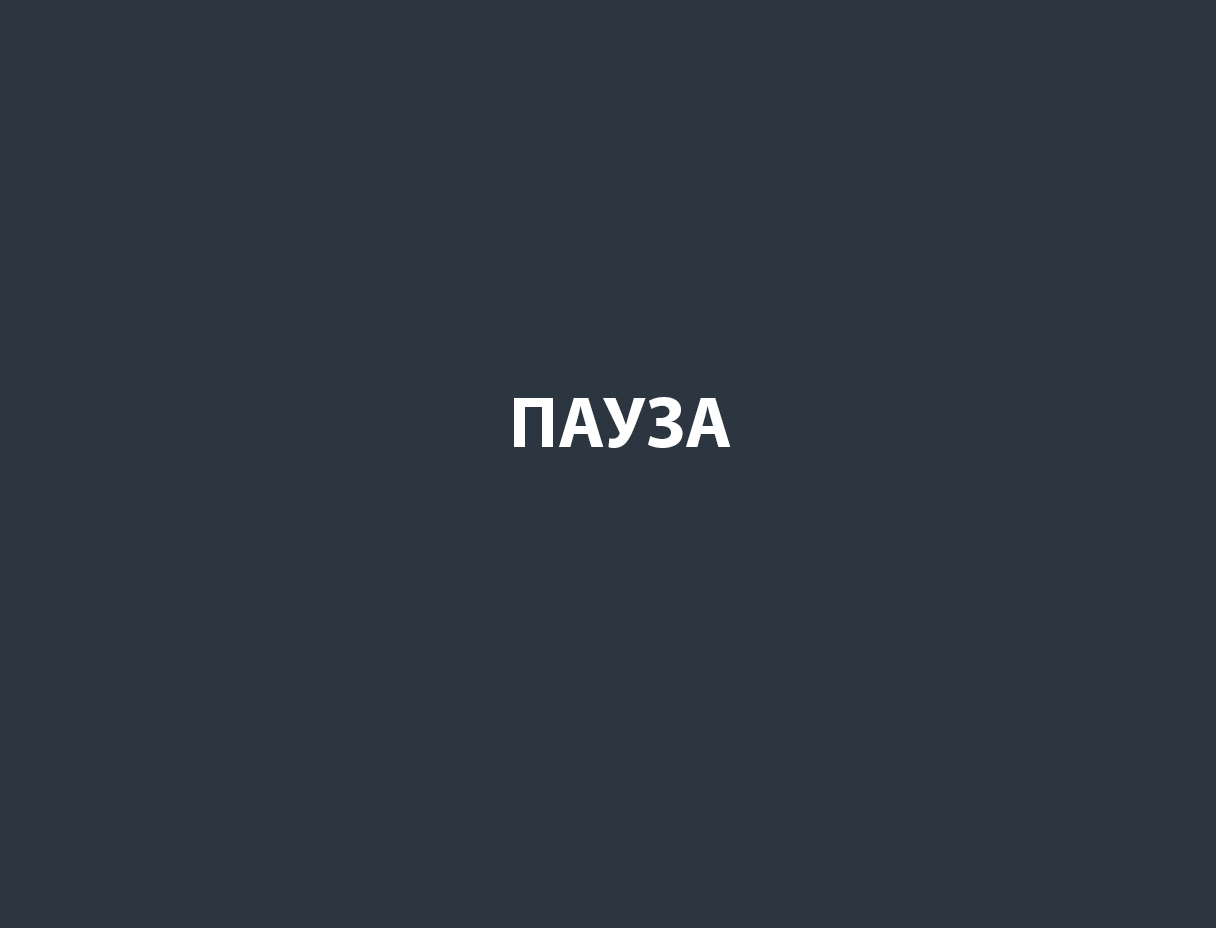
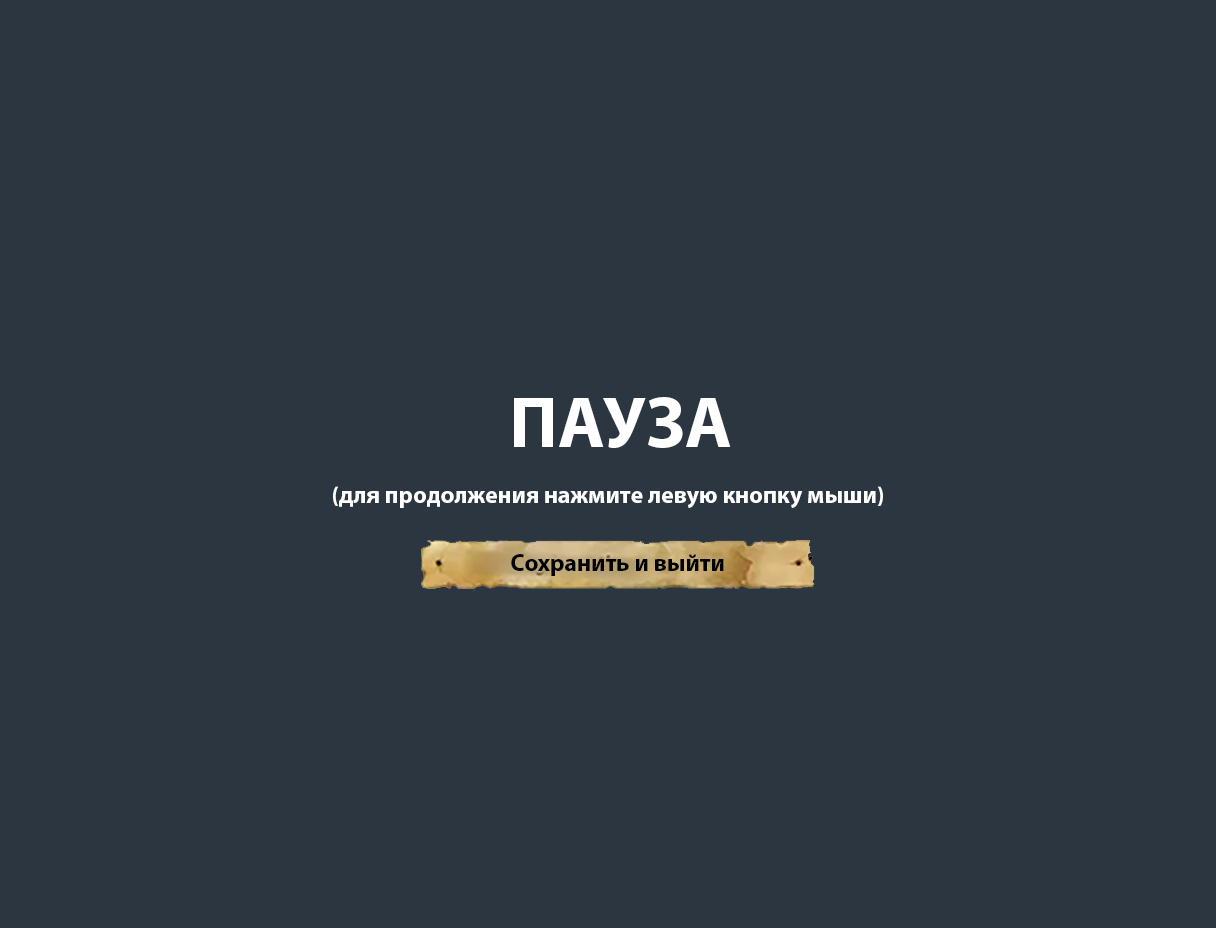
add save

Changed region(s): [[0.2812, 0.5312, 0.7188, 0.6562]]

diff --git a/BassicClasses/Map.cpp b/BassicClasses/Map.cpp
@@ -4,71 +4,79 @@ Map* Map::instance = nullptr;
 
 Map* Map::GetInstance()
 {
-	if (!instance) 
+	if (!instance)
 	{
 		instance = new Map();
 		instance->MGR = Manager::GetInstance();
 		instance->RES_MGR = Resource_manager::GetInstance();
-		string line;
-		vector <string> _map_vector;
-		ifstream file("./MapAndSave/map.txt");
+	}
+	return instance;
+}
 
-		while (getline(file, line)) {
-			_map_vector.push_back(line);
-		}
+void Map::SetMap(const char* filename)
+{
+	string line;
+	vector <string> _map_vector;
+	ifstream file(filename);
 
-		instance->map_vector = _map_vector;
-		
-		MSG* msg = new MSG;
+	while (getline(file, line)) {
+		_map_vector.push_back(line);
+	}
+	instance->map_vector = _map_vector;
 
-		for (int i = 0; i < _map_vector.size(); i++)
+	MSG* msg = new MSG;
+
+	for (int i = 0; i < map_vector.size() - 4; i++)
+	{
+		for (int j = 0; j < map_vector[0].length(); j++)
 		{
-			for (int j = 0; j < _map_vector[0].length(); j++)
+			if (map_vector[i][j] == '1')
 			{
-				if (_map_vector[i][j] == '1')
-				{
-					msg = new MSG;
-					msg->type = MsgType::Create;
-					House* a = new House({ j * 32, i * 32 }, 1, 5);
-					msg->create.new_object = a;
-					instance->MGR->SendMsg(msg);
-				}
-				if (_map_vector[i][j] == '2')
-				{
-					msg = new MSG;
-					msg->type = MsgType::Create;
-					Sawmill* a = new Sawmill({ j * 32, i * 32 }, 1);
-					msg->create.new_object = a;
-					instance->MGR->SendMsg(msg);
-				}
-				if (_map_vector[i][j] == '3')
-				{
-					MSG* msg = new MSG;
-					msg->type = MsgType::Create;
-					HuntersHouse* a = new HuntersHouse({ j * 32, i * 32 }, 1);
-					msg->create.new_object = a;
-					instance->MGR->SendMsg(msg);
-				}
-				if (_map_vector[i][j] == '4')
-				{
-					MSG* msg = new MSG;
-					msg->type = MsgType::Create;
-					Kitchen* a = new Kitchen({ j * 32, i * 32 }, 1);
-					msg->create.new_object = a;
-					instance->MGR->SendMsg(msg);
-				}
-				if (_map_vector[i][j] == '5')
-				{
-					MSG* msg = new MSG;
-					msg->type = MsgType::Create;
-					Hospital* a = new Hospital({ j * 32, i * 32 }, 1);
-					msg->create.new_object = a;
-					instance->MGR->SendMsg(msg);
-				}
+				RES_MGR->SetHomeless_people(RES_MGR->GetHomeless_people() - 5);
+				msg = new MSG;
+				msg->type = MsgType::Create;
+				House* a = new House({ j * 32, i * 32 }, 1, 5);
+				msg->create.new_object = a;
+				instance->MGR->SendMsg(msg);
+			}
+			if (map_vector[i][j] == '2')
+			{
+				RES_MGR->SetCountSawmill(1);
+				msg = new MSG;
+				msg->type = MsgType::Create;
+				Sawmill* a = new Sawmill({ j * 32, i * 32 }, 1);
+				msg->create.new_object = a;
+				instance->MGR->SendMsg(msg);
+			}
+			if (map_vector[i][j] == '3')
+			{
+				RES_MGR->SetCount_HunterHouse(1);
+				MSG* msg = new MSG;
+				msg->type = MsgType::Create;
+				HuntersHouse* a = new HuntersHouse({ j * 32, i * 32 }, 1);
+				msg->create.new_object = a;
+				instance->MGR->SendMsg(msg);
+			}
+			if (map_vector[i][j] == '4')
+			{
+				RES_MGR->SetCount_Kitchen(1);
+				MSG* msg = new MSG;
+				msg->type = MsgType::Create;
+				Kitchen* a = new Kitchen({ j * 32, i * 32 }, 1);
+				msg->create.new_object = a;
+				instance->MGR->SendMsg(msg);
+			}
+			if (map_vector[i][j] == '5')
+			{
+				RES_MGR->SetCount_Hospital(1);
+				MSG* msg = new MSG;
+				msg->type = MsgType::Create;
+				Hospital* a = new Hospital({ j * 32, i * 32 }, 1);
+				msg->create.new_object = a;
+				instance->MGR->SendMsg(msg);
 			}
 		}
 	}
-	return instance;
 }
 
 void Map::DrawMap(sf::RenderWindow& window, int days, float timer)
@@ -153,6 +161,19 @@ void Map::DrawMap(sf::RenderWindow& window, int days, float timer)
 	delete info_about_people;
 }
 
+void Map::SetTime(int timer)
+{
+	if (timer != 24)
+	{
+		_timer = timer;
+	}
+}
+
+int Map::GetTime()
+{
+	return _timer;
+}
+
 void Map::DrawMenu(sf::RenderWindow& window)
 {
 	bool in_menu = true;
@@ -174,9 +195,28 @@ void Map::DrawMenu(sf::RenderWindow& window)
 					cout << sf::Mouse::getPosition(window).x << " ";
 					cout << sf::Mouse::getPosition(window).y << endl;
 					if (event.mouseButton.x >= 360 && event.mouseButton.y >= 226
-						&& event.mouseButton.x <= 855 && event.mouseButton.y <= 303) in_menu = false;
+						&& event.mouseButton.x <= 855 && event.mouseButton.y <= 303) 
+					{
+						SetMap("./MapAndSave/map_save.txt"); 
+						in_menu = false;
+						string line_resourse;
+						vector <string> resourse_vector;
+						ifstream file1("./MapAndSave/save_resourse.txt");
+
+						while (getline(file1, line_resourse)) {
+							resourse_vector.push_back(line_resourse);
+						}
+
+						RES_MGR->SetWood(stoi(resourse_vector[0]));
+						RES_MGR->SetRaw_food(stoi(resourse_vector[1]));
+						RES_MGR->SetFresh_food(stoi(resourse_vector[2]));
+						RES_MGR->SetMoral_spirit(stoi(resourse_vector[3]));
+						int	_timer = 24;
+						_timer = stoi(resourse_vector[4]);
+						SetTime(_timer);
+					}
 					if (event.mouseButton.x >= 360 && event.mouseButton.y >= 329
-						&& event.mouseButton.x <= 855 && event.mouseButton.y <= 404) in_menu = false;
+						&& event.mouseButton.x <= 855 && event.mouseButton.y <= 404) {SetMap("./MapAndSave/map.txt"); in_menu = false;}
 					if (event.mouseButton.x >= 360 && event.mouseButton.y >= 430
 						&& event.mouseButton.x <= 855 && event.mouseButton.y <= 506) in_menu = false;
 					if (event.mouseButton.x >= 360 && event.mouseButton.y >= 533
@@ -192,7 +232,7 @@ void Map::DrawMenu(sf::RenderWindow& window)
 	delete menu;
 }
 
-void Map::Pause(sf::RenderWindow& window)
+void Map::Pause(sf::RenderWindow& window, int days, int timer)
 {
 	bool in_pause = true;
 	Texture* menu_pause = RES_MGR->LoadTexture("image/interface/menu_pause.png", { 0, 0, 1216, 928 });
@@ -210,6 +250,27 @@ void Map::Pause(sf::RenderWindow& window)
 			{
 				if (event.mouseButton.button == sf::Mouse::Left)
 				{
+					if (event.mouseButton.x >= 422 && event.mouseButton.y >= 541
+						&& event.mouseButton.x <= 812 && event.mouseButton.y <= 587)
+					{
+						std::ofstream out_map;
+						out_map.open("./MapAndSave/map_save.txt");
+						for (int i = 0; i < map_vector.size(); i++)
+						{
+							out_map << map_vector[i] << endl;
+						}
+						out_map.close();
+
+						std::ofstream out_resourse;
+						out_resourse.open("./MapAndSave/save_resourse.txt");
+						out_resourse << RES_MGR->GetWood() << endl;
+						out_resourse << RES_MGR->GetRaw_food() << endl;
+						out_resourse << RES_MGR->GetFresh_food() << endl;
+						out_resourse << RES_MGR->GetMoral_spirit() << endl;
+						out_resourse << timer;
+						out_resourse.close();
+						exit(0);
+					}
 					in_pause = false;
 				}
 			}

diff --git a/Source.cpp b/Source.cpp
@@ -9,13 +9,15 @@ int main()
 	Map* MAP = Map::GetInstance();
 	Resource_manager* RES_MGR = Resource_manager::GetInstance();
 
-	Clock clock;
+	MAP->DrawMenu(window);
+	
 	float timer = 24;
-	int days = 1;
+	timer = MAP->GetTime();
+	int days = timer / 24;
 	int get_resorse = 0;
 	int count_spped = 1;
-
-	MAP->DrawMenu(window);
+	
+	Clock clock;
 	clock.restart();
 
 	while (window.isOpen())
@@ -54,7 +56,7 @@ int main()
 					if (event.mouseButton.x >= 1088 && event.mouseButton.y >= 0
 						&& event.mouseButton.x <= 1152 && event.mouseButton.y <= 64 && count_spped != 4) count_spped += 1;
 					if (event.mouseButton.x >= 960 && event.mouseButton.y >= 0
-						&& event.mouseButton.x <= 1024 && event.mouseButton.y <= 64) MAP->Pause(window);
+						&& event.mouseButton.x <= 1024 && event.mouseButton.y <= 64) MAP->Pause(window, days, timer);
 					cout << sf::Mouse::getPosition(window).x << endl;
 					cout << sf::Mouse::getPosition(window).y << endl;
 					if (event.mouseButton.x >= 1152 && event.mouseButton.y <= 64)

diff --git a/BassicClasses/Map.h b/BassicClasses/Map.h
@@ -16,13 +16,17 @@ private:
 	std::vector<string> map_vector;
 	Manager* MGR = nullptr;
 	Resource_manager* RES_MGR = nullptr;
+	int _timer = 0;
 
 public:
 	static Map* GetInstance();
+	void SetMap(const char* filename);
 	void DrawMap(sf::RenderWindow& window, int days, float timer);
 	void DrawMenu(sf::RenderWindow& window);
-	void Pause(sf::RenderWindow& window);
+	void Pause(sf::RenderWindow& window, int days,int timer);
 	void Create_new_bilding(sf::RenderWindow& window, int days, float timer);
 	int Chose_bild(sf::RenderWindow& window);
 	bool Can_buld_sawmill(int x, int y);
+	void SetTime(int _timer);
+	int GetTime();
 };

diff --git a/BassicClasses/Resource_manager.h b/BassicClasses/Resource_manager.h
@@ -16,11 +16,11 @@ private:
 	int fresh_food = 0;
 	int people = 100;
 	int moral_spirit = 50;
-	int count_Sawmill = 1;
-	int count_HunterHouse = 1;
-	int count_Kitchen = 1;
+	int count_Sawmill = 0;
+	int count_HunterHouse = 0;
+	int count_Kitchen = 0;
 	int count_Hospital = 0;
-	int homeless_people = 85;
+	int homeless_people = 100;
 	int hungry_people = 0;
 
 public:
